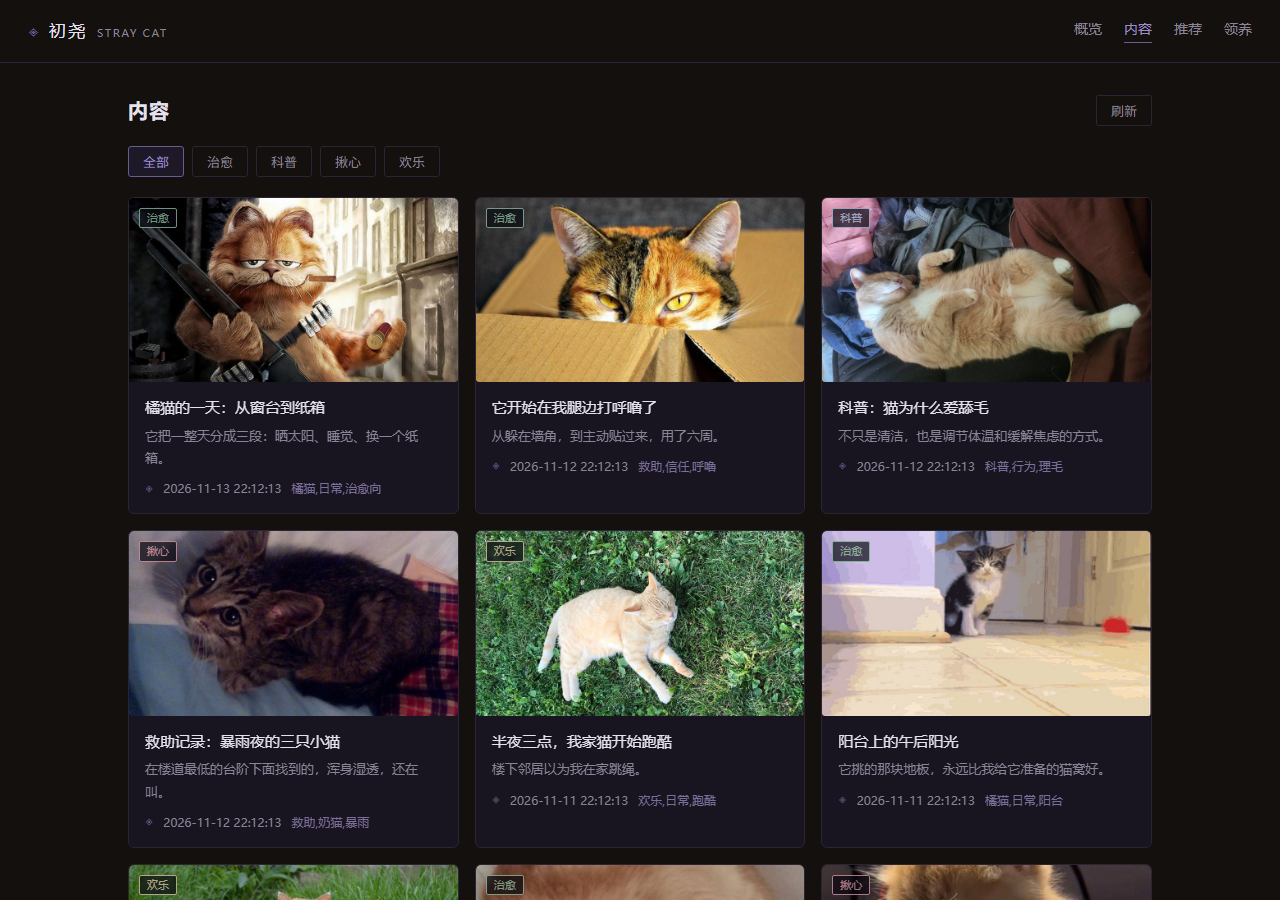
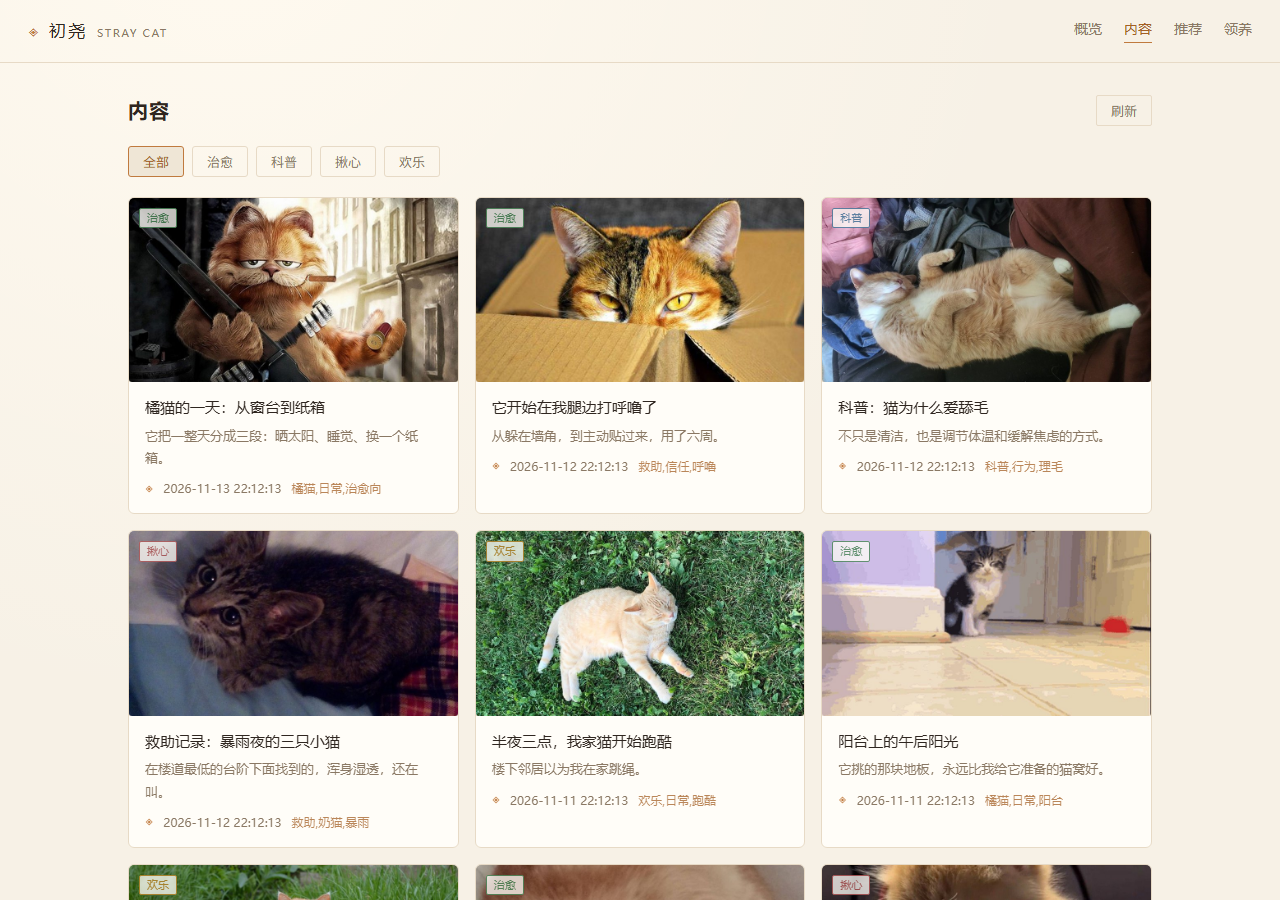
style(web): 暖色纸感主题 + 修掉末行只剩一个的排版问题
- style.css 换成暖米白底 + 琥珀强调色（只改这一个文件，全站换色）
- 组件里 13 处写死的深色改为变量（--bg-soft / --overlay / --shadow / --ok / --bad）
- 内容页 pageSize 10 → 12：3 列 × 4 行整除，不再出现最后一行孤零零一张
- 推荐页改两列网格（minmax 480px），单列时右侧空白太多
- 六张截图全部按新配色重拍

diff --git a/web/src/style.css b/web/src/style.css
@@ -1,23 +1,39 @@
 /* =============================================================================
-   src/style.css —— 全局样式（暗色 + 低饱和紫罗兰，几何符号 ◈ 作点缀）
+   src/style.css —— 全局样式（暖色纸感：奶油底 + 琥珀强调色）
    ---------------------------------------------------------------------------
    规矩：**颜色只在这里定义**，组件里一律用 var(--xxx)。
    这样以后换配色只改这一个文件，不用满项目找 #hex。
+
+   ★ 变量名的历史包袱：
+     --violet / --violet-l 原来指紫色，换成暖色后它们代表"强调色"。
+     名字没改是为了不动 6 个组件文件；看名字时记得它现在是**琥珀橙**。
    ============================================================================= */
 :root {
-  --bg: #14100e;          /* 炭黑，不是纯黑 —— 纯黑看久了刺眼 */
-  --panel: #191520;
-  --line: #2a2434;
-  --fg: #e6e1ee;
-  --muted: #8b8497;
-  --violet: #6b5b93;
-  --violet-l: #9d8cc4;
+  /* ---- 底色：暖米白，不是纯白（纯白看久了刺眼，也不像纸） ---- */
+  --bg: #f7f1e6;
+  --bg-soft: #efe6d6;      /* 图片占位、代码底色这类"次级背景" */
+  --panel: #fffdf8;
+  --line: #e7dac6;
+  --fg: #2f2620;           /* 暖近黑，比纯黑柔和 */
+  --muted: #8a7864;
 
-  /* 情绪基调：低饱和，和整体暗色调一致，不抢标题视线 */
-  --mood-cure: #7fae8f;   /* 治愈 */
-  --mood-sci: #8fa8c4;    /* 科普 */
-  --mood-hurt: #c98a96;   /* 揪心 */
-  --mood-fun: #c4b48f;    /* 欢乐 */
+  /* ---- 强调色：琥珀橙（原紫色位） ---- */
+  --violet: #c07a3e;
+  --violet-l: #a45f24;
+
+  /* ---- 图片上的浮层 ---- */
+  --overlay: rgba(255, 252, 246, 0.9);
+  --shadow: 0 6px 20px rgba(120, 90, 50, 0.1);
+
+  /* ---- 情绪基调：暖底上要压深一点才有对比 ---- */
+  --mood-cure: #4f8a5b;   /* 治愈 */
+  --mood-sci: #477a9c;    /* 科普 */
+  --mood-hurt: #b25b5b;   /* 揪心 */
+  --mood-fun: #b8862e;    /* 欢乐 */
+
+  /* ---- 状态色 ---- */
+  --ok: #4f8a5b;
+  --bad: #b25b5b;
 }
 
 * {
@@ -37,6 +53,9 @@ body {
   font-size: 14px;
   line-height: 1.5;
   -webkit-font-smoothing: antialiased;
+  /* 左上角一点暖光，避免整片纯色显得平 */
+  background-image: radial-gradient(circle at 18% -10%, #fffaf0 0%, transparent 55%);
+  background-attachment: fixed;
 }
 
 a {

diff --git a/web/src/views/ContentList.vue b/web/src/views/ContentList.vue
@@ -211,7 +211,7 @@ onMounted(() => {
   margin: 0;
 }
 .state-hint code {
-  background: #1d1926;
+  background: var(--bg-soft);
   color: var(--violet-l);
   padding: 1px 6px;
   border-radius: 2px;
@@ -245,7 +245,7 @@ onMounted(() => {
   position: relative;
   aspect-ratio: 16 / 9;
   overflow: hidden;
-  background: #0d0b14;
+  background: var(--bg-soft);
 }
 .cover {
   width: 100%;
@@ -261,7 +261,7 @@ onMounted(() => {
   position: absolute;
   left: 10px;
   top: 10px;
-  background: rgba(10, 8, 16, 0.82);
+  background: var(--overlay);
   backdrop-filter: blur(2px);
 }
 .card-body {
@@ -363,7 +363,7 @@ onMounted(() => {
 }
 .card:hover {
   transform: translateY(-1px);
-  box-shadow: 0 2px 12px rgba(0, 0, 0, 0.25);
+  box-shadow: var(--shadow);
 }
 .card,
 .card:hover {
@@ -421,7 +421,7 @@ onMounted(() => {
 .mood-btn.active {
   border-color: var(--violet);
   color: var(--violet-l);
-  background: #1d1926;
+  background: var(--bg-soft);
 }
 .mood-btn:disabled {
   opacity: 0.4;

diff --git a/web/src/views/Feed.vue b/web/src/views/Feed.vue
@@ -149,21 +149,25 @@ h1 {
   list-style: none;
   margin: 0;
   padding: 0;
+  /* 宽屏两列：单列时右侧一大片空白，看着"不饱满" */
+  display: grid;
+  grid-template-columns: repeat(auto-fill, minmax(480px, 1fr));
+  gap: 12px;
 }
 /* 左缩略图 + 右内容 */
 .card {
   display: flex;
-  gap: 16px;
+  gap: 14px;
   border: 1px solid var(--line);
   background: var(--panel);
-  border-radius: 6px;
+  border-radius: 8px;
   padding: 12px;
-  margin-bottom: 12px;
-  transition: border-color 0.18s, transform 0.18s;
+  transition: border-color 0.18s, transform 0.18s, box-shadow 0.18s;
 }
 .card:hover {
   border-color: var(--violet);
-  transform: translateY(-1px);
+  transform: translateY(-2px);
+  box-shadow: var(--shadow);
 }
 .thumb {
   flex-shrink: 0;
@@ -171,7 +175,7 @@ h1 {
   height: 100px;
   object-fit: cover;
   border-radius: 4px;
-  background: #0d0b14;
+  background: var(--bg-soft);
 }
 .body {
   flex: 1;

diff --git a/web/src/api/content.js b/web/src/api/content.js
@@ -27,7 +27,7 @@ import client from './client'
  * @param {number} p.pageSize 每页几条（后端上限 100）
  * @returns {Promise<{list:Array, total:number, page:number, page_size:number}>}
  */
-export function fetchContents({ page = 1, pageSize = 10,mood="" } = {}) {
+export function fetchContents({ page = 1, pageSize = 12, mood = "" } = {}) {
   // TODO(你)：一行代码，去掉下面这行 throw，换成真正的请求
   return client.get('/api/v1/contents', { params: { page, page_size: pageSize,mood } })
 }

diff --git a/web/src/views/Home.vue b/web/src/views/Home.vue
@@ -183,7 +183,7 @@ onMounted(async () => {
   background: var(--panel);
 }
 .card.bad {
-  border-color: #5a2b3a;
+  border-color: var(--bad);
 }
 .card-head {
   display: flex;
@@ -205,12 +205,12 @@ onMounted(async () => {
   color: var(--muted);
 }
 .b-ok {
-  color: #7fae8f;
-  border-color: #2f4a38;
+  color: var(--ok);
+  border-color: var(--ok);
 }
 .b-bad {
-  color: #c98a96;
-  border-color: #5a2b3a;
+  color: var(--bad);
+  border-color: var(--bad);
 }
 
 /* ---- 技术要点 ---- */

diff --git a/web/src/views/CatList.vue b/web/src/views/CatList.vue
@@ -254,7 +254,7 @@ h1 {
   height: 116px;
   border-radius: 4px;
   overflow: hidden;
-  background: #0d0b14;
+  background: var(--bg-soft);
 }
 .cover {
   width: 100%;
@@ -267,7 +267,7 @@ h1 {
   position: absolute;
   right: 8px;
   bottom: 8px;
-  background: rgba(10, 8, 16, 0.82);
+  background: var(--overlay);
   backdrop-filter: blur(2px);
 }
 
